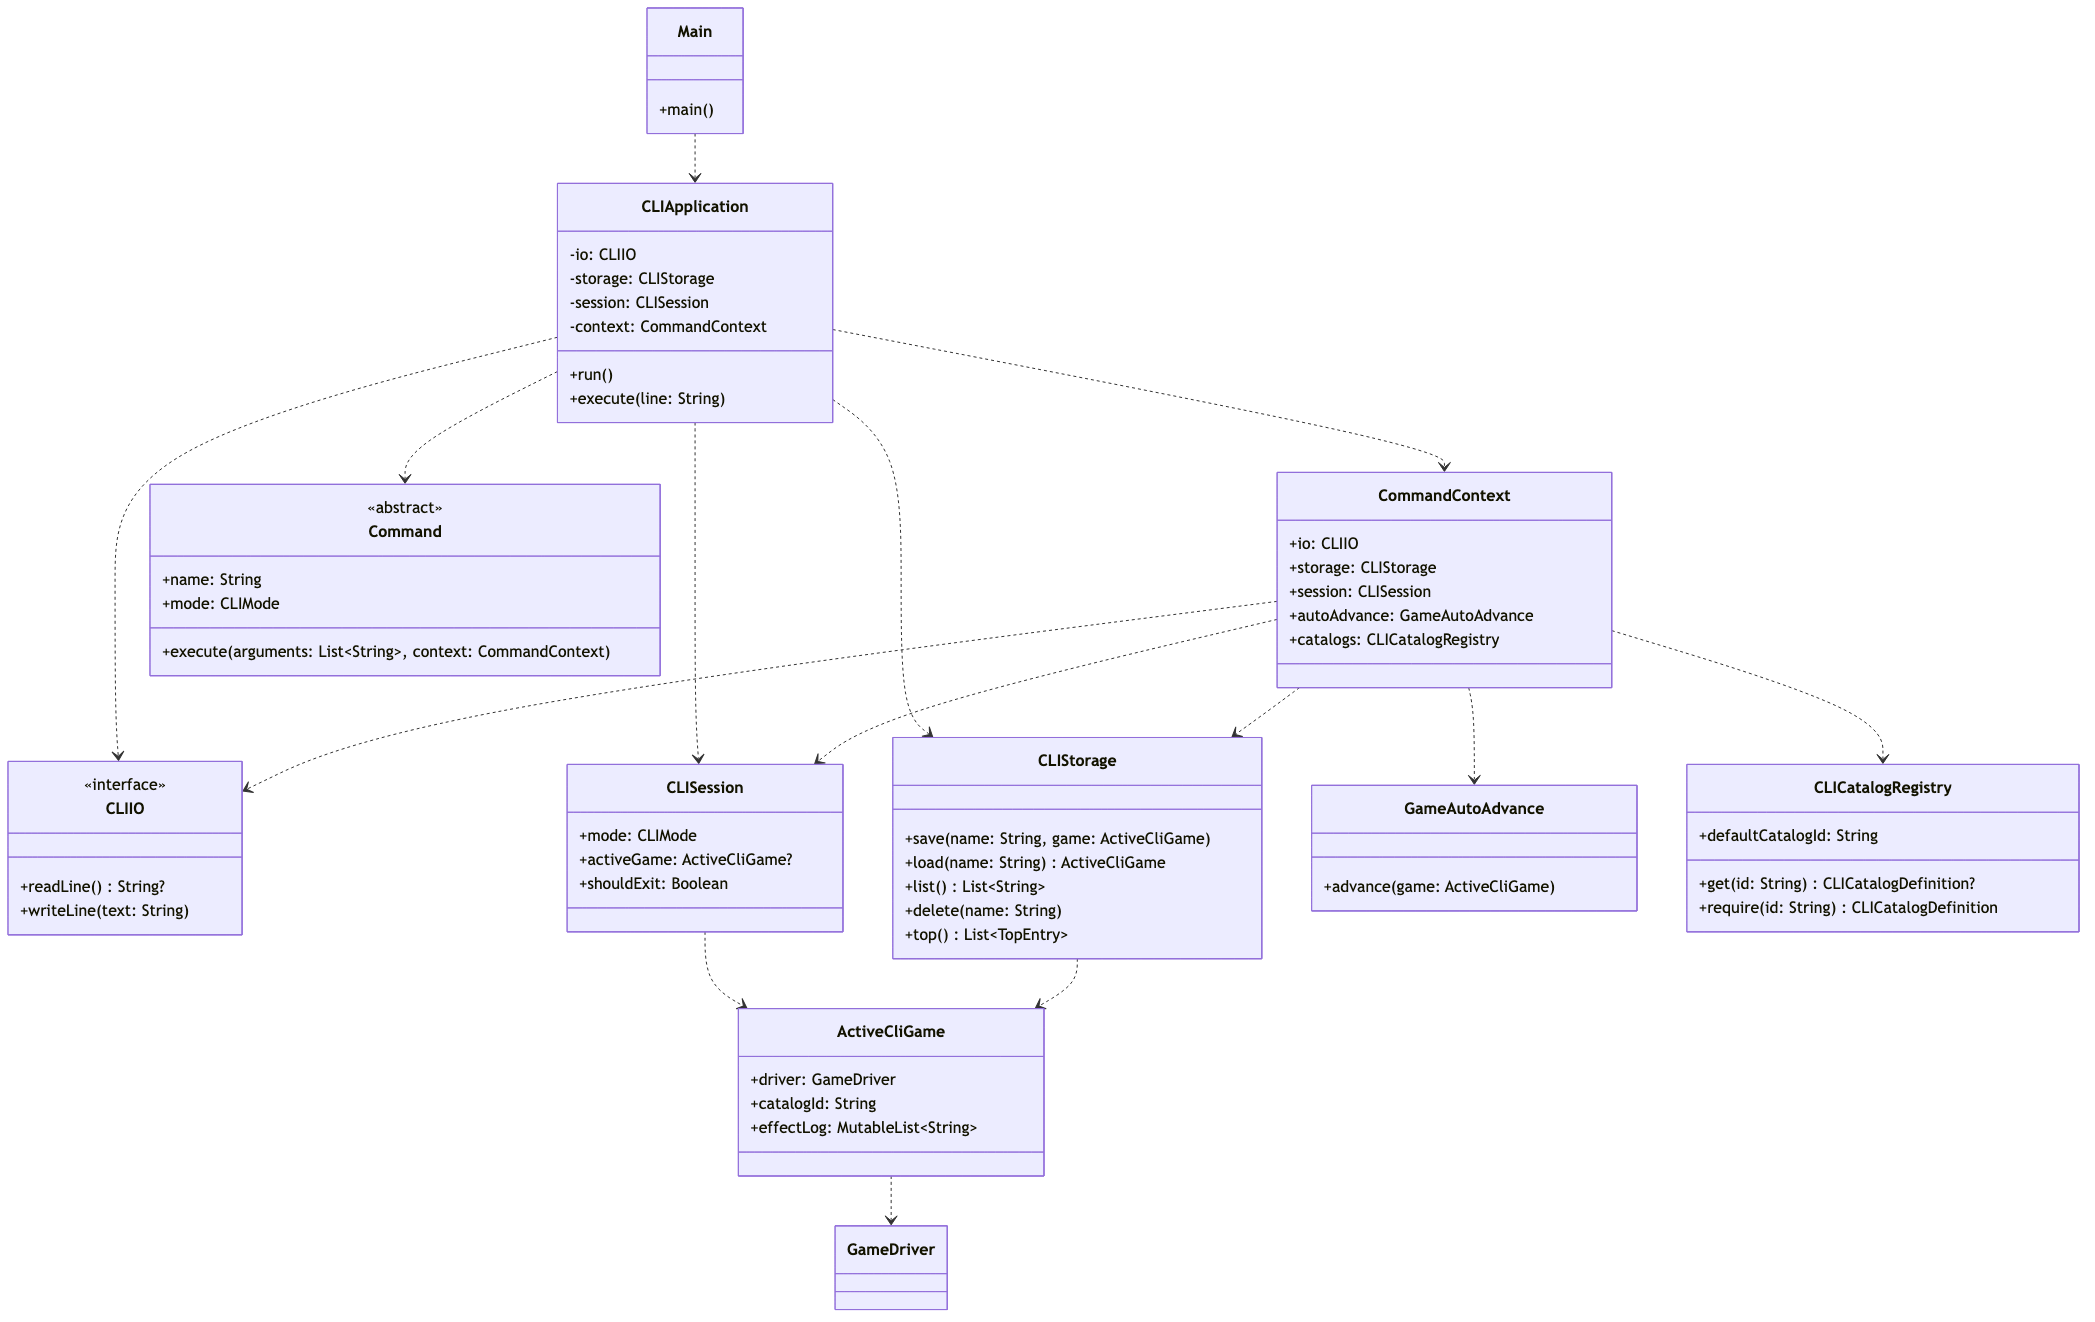
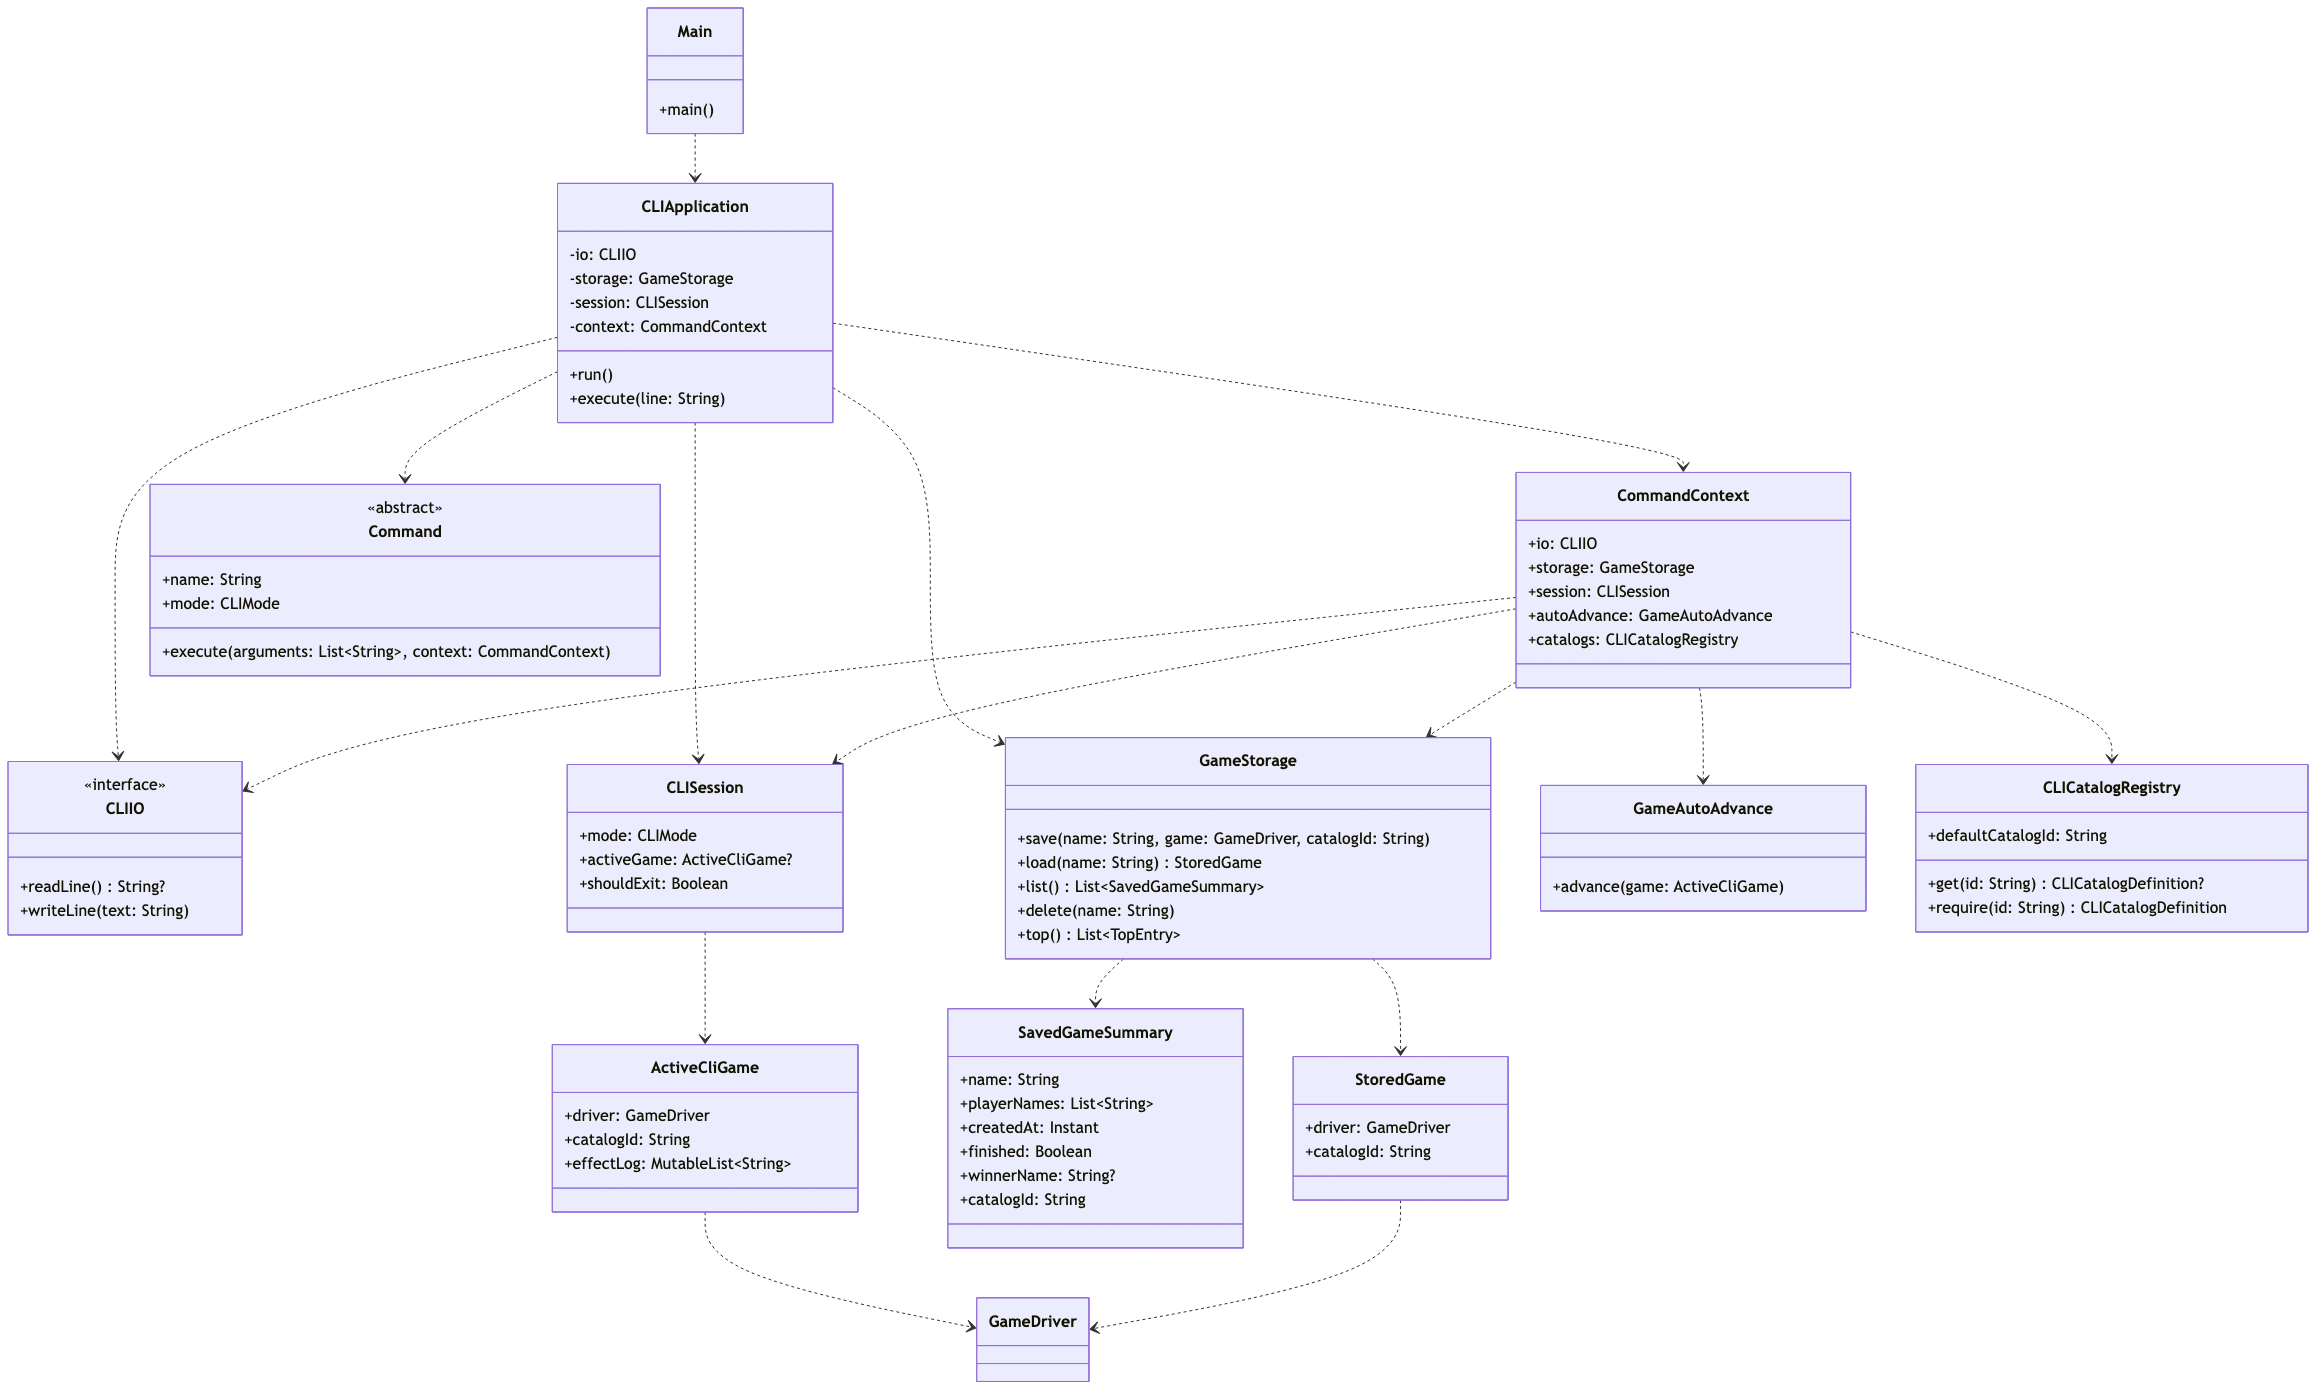
Actualise arch docs

diff --git a/docs/DIAGRAM.md b/docs/DIAGRAM.md
@@ -126,6 +126,14 @@ classDiagram
             +get(id: String) Card?
             +getCardList() List~Card~
         }
+        class CardCatalogDefinition {
+            +id: String
+            +catalog: CardCatalog
+        }
+        class CardCatalogResolver {
+            +get(id: String) CardCatalog?
+            +getCatalogList() List~CardCatalog~
+        }
         class CompoundCatalog
         class CardType {
             <<enum>>
@@ -189,14 +197,31 @@ classDiagram
     namespace GameFacility {
         class GameExporter {
             <<interface>>
-            +export(game: Game) String
+            +export(game: GamePayload) String
         }
         class GameImporter {
             <<interface>>
-            +import(content: String) Game
+            +import(content: String) GamePayload
         }
         class JSONExporter
         class JSONImporter
+        class GamePayload {
+            +players: List~PlayerPayload~
+            +metadata: GamePayloadMetadata?
+            +catalogResolver: CardCatalogResolver
+            +catalog: CardCatalog
+            +catalogId: String?
+        }
+        class GamePayloadMetadata {
+            +winner: String?
+            +catalogId: String?
+            +finished: Boolean?
+        }
+        class PlayerPayload {
+            +name: String
+            +balance: Int
+            +cards: List~String~
+        }
           class GameDriver {
              +game: Game
              +nextStep() PendingStepPhase
@@ -206,6 +231,32 @@ classDiagram
         class GameFactory {
             <<object>>
             +createDriver(catalog: CardCatalog, playerNames: List~String~) GameDriver
+            +createDriver(payload: GamePayload) GameDriver
+        }
+    }
+
+    namespace Storage {
+        class GameStorage {
+            +save(name: String, game: GameDriver, catalogId: String) void
+            +load(name: String) StoredGame
+            +list() List~SavedGameSummary~
+            +delete(name: String) void
+            +top() List~TopEntry~
+        }
+        class StoredGame {
+            +driver: GameDriver
+            +catalogId: String
+        }
+        class SavedGameSummary {
+            +name: String
+            +playerNames: List~String~
+            +finished: Boolean
+            +winnerName: String?
+            +catalogId: String
+        }
+        class TopEntry {
+            +playerName: String
+            +wins: Int
         }
     }
 
@@ -273,6 +324,8 @@ classDiagram
 
      CardCatalog <|-- CompoundCatalog
      StandardCatalog ..> CardCatalog : instance
+     CardCatalogResolver --> CardCatalogDefinition
+     CardCatalogDefinition --> CardCatalog
 
      Player "1" o-- "*" Card : owns
      Game "1" o-- "*" Player : contains
@@ -313,11 +366,26 @@ classDiagram
 
      JSONExporter ..|> GameExporter
      JSONImporter ..|> GameImporter
+     JSONExporter ..> GamePayload : serializes
+     JSONImporter ..> GamePayload : parses
+     GamePayload --> PlayerPayload
+     GamePayload --> GamePayloadMetadata
+     GamePayload --> CardCatalogResolver : resolves catalog
+     GamePayload ..> CardCatalog : catalog getter
      GameDriver --> Game
      GameFactory ..> Game : creates
      GameFactory ..> GameDriver : creates
+     GameFactory ..> GamePayload : imports
+     GameStorage --> GameImporter
+     GameStorage --> GameExporter
+     GameStorage --> CardCatalogResolver
+     GameStorage ..> GamePayload
+     GameStorage ..> GameFactory
+     GameStorage --> StoredGame
+     GameStorage --> SavedGameSummary
+     GameStorage --> TopEntry
+     StoredGame --> GameDriver
 ```
 
 Для описания дальнейшей логики используется диаграмма классов выше. Далее перечислены моменты.
-
 
